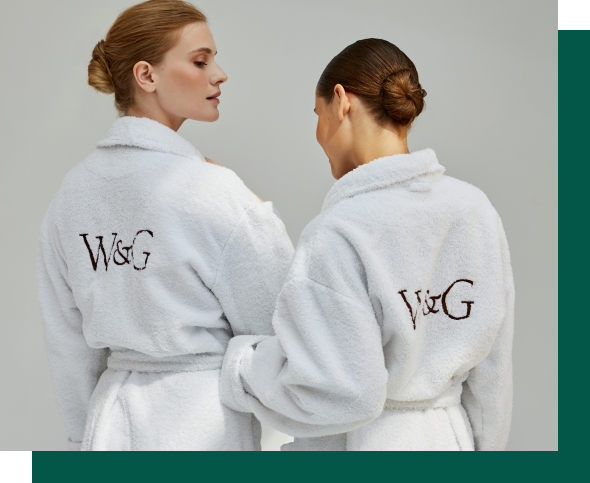
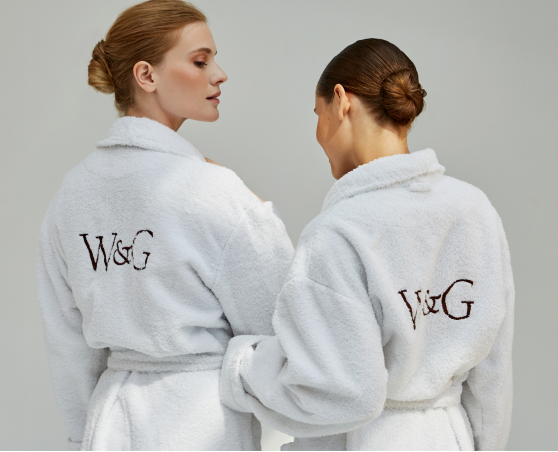
Fixes according to the clients opinion, changed images, css imporvement

diff --git a/css/style.css b/css/style.css
@@ -26,11 +26,17 @@
 }
 
 .first-page {
-    margin-top: 46px;
+    margin-top: 0px;
 }
 
 .second-page {
     margin-top: 46px;
+}
+
+.second-page img {
+    -webkit-box-shadow: 30px 30px 0px 0px rgba(3, 87, 72, 1);
+    -moz-box-shadow: 30px 30px 0px 0px rgba(3, 87, 72, 1);
+    box-shadow: 30px 30px 0px 0px rgba(3, 87, 72, 1);
 }
 
 .green-text {
@@ -48,7 +54,7 @@ img {
 
 .img-secondpage {
     float: left;
-    padding-right: 80px;
+    margin-right: 80px;
 }
 
 .logo {
@@ -80,7 +86,6 @@ body {
 }
 
 main {
-    padding-top: 46px;
     margin-left: auto;
     margin-right: auto;
     width: 1205px;
@@ -121,8 +126,14 @@ h1 {
     margin-top: 40px;
 }
 
+.central-block img {
+    -webkit-box-shadow: 30px 30px 0px 0px rgba(3, 87, 72, 1);
+    -moz-box-shadow: 30px 30px 0px 0px rgba(3, 87, 72, 1);
+    box-shadow: 30px 30px 0px 0px rgba(3, 87, 72, 1);
+}
+
 .central-block__padding {
-    padding: 0 25px 0 25px;
+    margin: 0 25px 0 25px;
     width: 254px;
     height: 284px;
     display: inline-block;
@@ -141,10 +152,10 @@ h1 {
 }
 
 .central-block__map {
-    width: 305px;
-    height: 622px;
+    width: 315px;
+    height: 522px;
     float: right;
-    margin-top: -450px;
+    margin-top: -350px;
     padding-left: 200px;
 }
 
@@ -152,6 +163,7 @@ h1 {
     float: left;
     margin-top: 70px;
     margin-left: 47px;
+    padding-bottom: 50px;
 }
 
 .bottom-block__button {
@@ -266,7 +278,7 @@ h1 {
 .map-mobile img {
     width: 800px;
     height: auto;
-    margin: auto !important;
+    margin-left: 30px;
 }
 
 /* Sizes for mobile phones */
@@ -360,7 +372,7 @@ h1 {
     .bottom_block__button{
         text-align: center;
         margin: 0 0 300px 0 !important;
-        margin: 60px auto 60px auto;
+        margin: 60px 0 60px 0;
     }
 
     .btn {
@@ -401,7 +413,11 @@ h1 {
 
     .central-block__mobile {
         display: block;
-        padding-left: 100px;
+        margin-left: 60px;
+    }
+
+    .central-block__mobile .btn {
+        margin-left: -60px;
     }
 
     .second-page__mobile-img {
@@ -414,6 +430,9 @@ h1 {
     .second-page__mobile-img img {
         width: 800px;
         height: auto;
+        -webkit-box-shadow: 30px 30px 0px 0px rgba(3, 87, 72, 1);
+        -moz-box-shadow: 30px 30px 0px 0px rgba(3, 87, 72, 1);
+        box-shadow: 30px 30px 0px 0px rgba(3, 87, 72, 1);
     }
 
     .second-page__mobile-text {

diff --git a/index.html b/index.html
@@ -57,7 +57,7 @@
         </div>
         <div>
             <div>
-                <h1 class="upper-block__soon-mobile">Coming soon Q3 2023</span></h1>
+                <h1 class="upper-block__soon-mobile">Coming soon<br>Q3 2023</span></h1>
             </div>
             <div class="upper-block__mobile">
                 <div class="upper-block__text-mobile">
